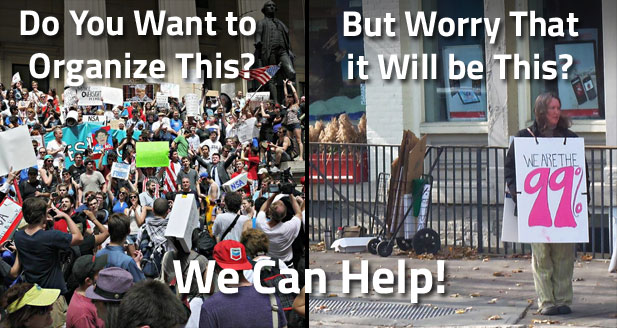
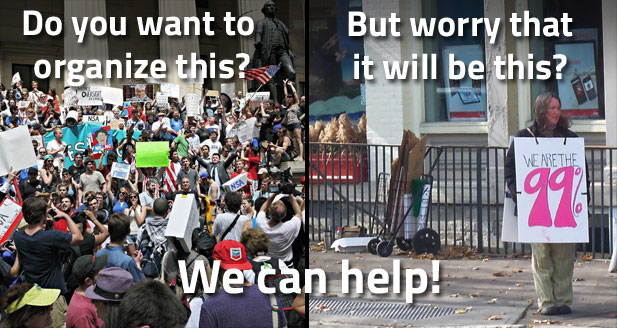
Bug Fixes
Added comment flood detection.
Added link to source code.
Added login verification to join button.
Correct title case on front page image.

diff --git a/Ajax/Comment.aspx.cs b/Ajax/Comment.aspx.cs
@@ -12,6 +12,8 @@ public partial class Ajax_Comment : System.Web.UI.Page
 
     private ProtestLib.Comment comment = new ProtestLib.Comment();
 
+    private static ProtestLib.Comment lastComment;
+
     protected void Page_Load(object sender, EventArgs e)
     {
         comment.ContentType = Request["contenttype"];
@@ -31,6 +33,7 @@ public partial class Ajax_Comment : System.Web.UI.Page
         {
             comment.UserId = AppUser.Current.User.Id;
             comment.Save();
+            lastComment = comment;
             OutputLit.Text = "{\"id\": " + comment.Id.ToString() + "}";
         }
         else
@@ -45,6 +48,12 @@ public partial class Ajax_Comment : System.Web.UI.Page
         List<string> errors = new List<string>();
         if (!AppUser.Current.IsAuthenticated) errors.Add("Please login first.");
         else if (comment.Body.Length < 10) errors.Add("Comment is too short.");
+
+        if (lastComment!=null)
+        {
+            if (comment.Body == lastComment.Body && comment.UserId == lastComment.UserId) errors.Add("You already posted this comment.");
+        }
+
         return errors.ToArray();
     }
 

diff --git a/Demonstrations/View.aspx.cs b/Demonstrations/View.aspx.cs
@@ -41,6 +41,7 @@ public partial class Demonstrations_View : System.Web.UI.Page
 
     protected void JoinButton_Click(object sender, EventArgs e)
     {
+        AppUser.RequireLogin();
         if (AppUser.Current.IsAuthenticated && participant == null) ProtestLib.Participant.Join(AppUser.Current.User.Id, protest);
         Response.Redirect(protest.Url);
     }
